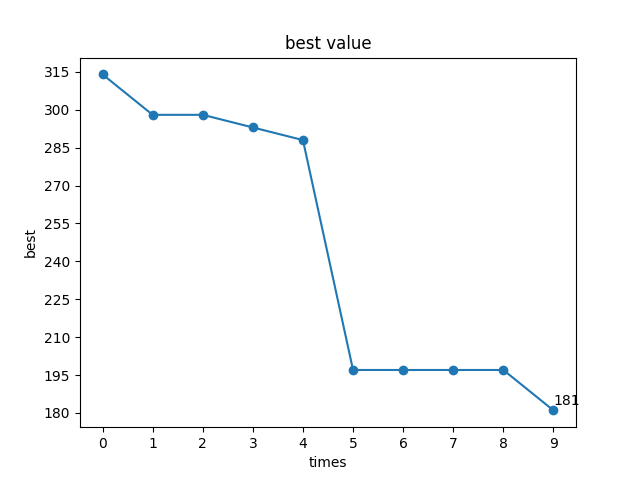
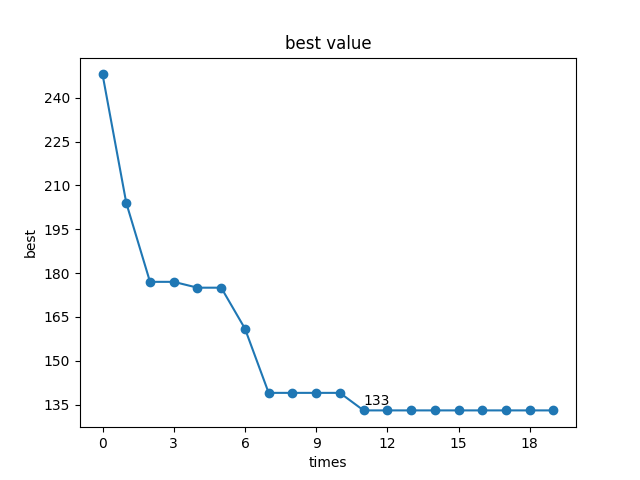
change figure

diff --git a/app.py b/app.py
@@ -52,9 +52,9 @@ if __name__ == '__main__':
     japProblem = jap(table)
 
     gaParameter = {
-        'liveLoops' : 10,
+        'liveLoops' : 20,
         'jap' : japProblem,
-        'popSize' : 5,
+        'popSize' : 50,
         'geneSize' : len(japProblem.timeTable),
         'mutationRate' : 0.1,
         'mutationType' : mutation_type.Inversion,
@@ -62,7 +62,7 @@ if __name__ == '__main__':
         'crossoverType' : crossover_type.PartialCrossover
     }
 
-    loops = 50
+    loops = 10
     data = []
     bestSolTime = []
     remove_exist_file()

diff --git a/visual_data.py b/visual_data.py
@@ -50,7 +50,3 @@ class visual_data():
         
         if type == show_type.MinMax:
             self.show_min_max(i)
-        
-
-
-    
